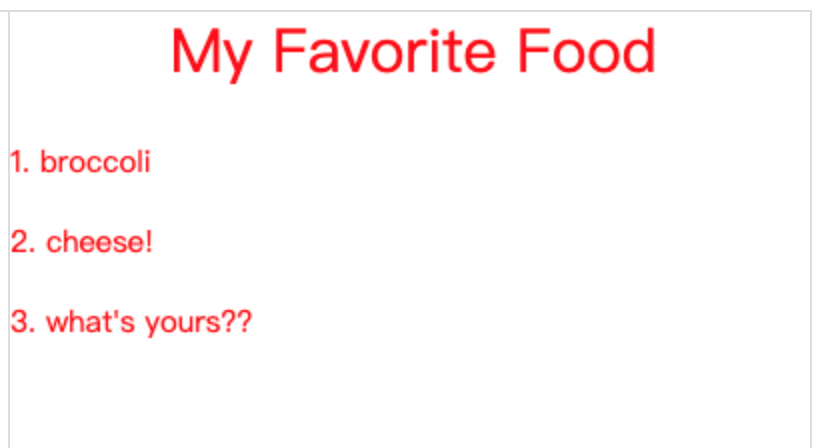
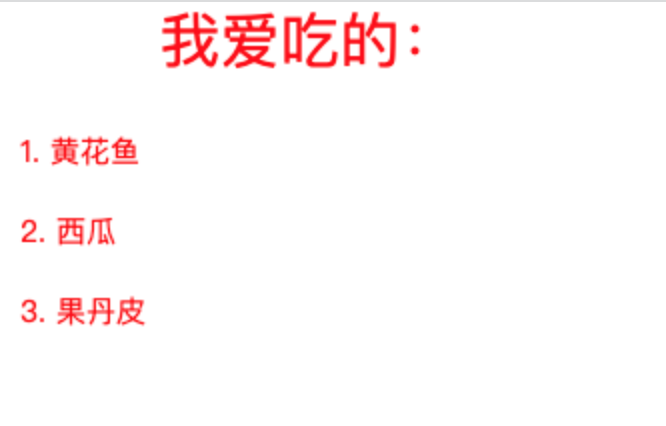
Update the chapter of text and strings

diff --git a/Notes-1-IntroToJS/7-TextStrings.html b/Notes-1-IntroToJS/7-TextStrings.html
@@ -5,7 +5,7 @@
 
 <meta charset="utf-8">
 <meta name="viewport" content="width=device-width, initial-scale=1.0, user-scalable=yes">
-<title>7-Text&Strings</title>
+<title>7-TextStrings</title>
 
 
 <style type="text/css">
@@ -328,61 +328,79 @@ kbd {
 
 <body>
 
-<h2 id="toc_0">Text and strings</h2>
+<h2 id="toc_0">Text and strings 文本～字符串</h2>
 
-<div><pre><code class="language-none">fill(0, 13, 255); 
+<div><pre><code class="language-none">// 字体颜色
+fill(0, 13, 255); 
+
+// 字号，也就是字体大小
 textSize(18); 
-text(&quot;We are coding!&quot;, 99, 155);</code></pre></div>
+
+// 输出吧文本
+text(&quot;We are coding!&quot;, 99, 155); </code></pre></div>
 
 <ul>
-<li><code>fill()</code>: font color</li>
-<li><code>textSize()</code>: font size</li>
-<li><code>text()</code>: display text
+<li><code>text()</code> 的参数：
 
 <ul>
-<li>content string, </li>
-<li>x of left-bottom corner of the text box</li>
-<li>y of left-bottom corner of the text box</li>
+<li>文本内容 content string, </li>
+<li>文本框左下角的横坐标 x of left-bottom corner of the text box</li>
+<li>文本框左下角的纵坐标 y of left-bottom corner of the text box</li>
 </ul></li>
 </ul>
 
-<h3 id="toc_1">Challenge</h3>
+<h3 id="toc_1">Challenge: My favorite foods 我爱吃的</h3>
+
+<p><a href="https://www.khanacademy.org/computer-programming/text-and-string-my-favorite-foods/6283708668002304">Example code</a></p>
 
 <p><img src="Images/myFavoriteFood.png" height="200"></p>
 
-<h2 id="toc_2">String</h2>
+<h3 id="toc_2">String 字符串 ～ 第二个数据类型！</h3>
 
 <p><span style="color:white;background-color:orange">String 字符串</span> is another important <span style="color:white;background-color:orange">data type 数据类型</span>, besides <span style="color:white;background-color:orange">numbers 数</span>.</p>
 
-<p><code>&quot;Enclosed with a pair of quatation marks.&quot;</code></p>
+<p>用一对引号括起来！</p>
 
-<div><pre><code class="language-none">// Set font color and size
+<p><code>&quot;Enclosed with a pair of quatation marks.&quot;</code> </p>
+
+<p><a href="https://www.khanacademy.org/computer-programming/pjs/5988122936950784">Example code: 好几个张小二～～</a></p>
+
+<p><img src="Images/zhangxiaoer.png" height="200"/></p>
+
+<div><pre><code class="language-none">// Set font color and size 设置字体颜色和字号
 fill(92, 24, 219);
-textSize(30);
+textSize(20);
 
-// Define the string as an variable
-var myName = &quot;Sophia&quot;; 
+// Define the string as an variable 
+// 定义一个变量，它是字符串！
+var myName = &quot;张小二呀&quot;; 
 
 // Use the variable as the text content to display
-text(myName, 41, 30);
-text(myName, 41, 60);
-text(myName, 41, 90);</code></pre></div>
+// 使用这个变量作为文本，多次输出吧
+text(myName, 40, 60);
+text(myName, 40, 90);
+text(myName, 40, 120);
+</code></pre></div>
 
-<p><img src="Images/sophia.png" height="200"/></p>
+<h3 id="toc_3">Concatenate strings 把几个字符串：串接起来！</h3>
 
-<h2 id="toc_3">Concatenate string 串接字符串</h2>
+<p><a href="https://www.khanacademy.org/computer-programming/pjs/5988122936950784">Example code</a></p>
 
-<div><pre><code class="language-none">var myName = &quot;Sophia&quot;;
-var message = myName + &quot;!!!&quot;;    // Concatenate 2 strings
+<p><img src="Images/concatenateStrings.png" height="100"/></p>
+
+<div><pre><code class="language-none">var myName = &quot;张老二&quot;;
+var message = myName + &quot;: &quot; + &quot; 你不是张老三&quot; + &quot;!!&quot;;    // Concatenate 2 strings
 text(message, 41, 30);</code></pre></div>
 
-<p><img src="Images/sophiaWithExclamation.png" height="100"/></p>
+<h3 id="toc_4">Challenge: Mouse Tracker 坐标文本追着鼠标跑～～biu～</h3>
 
-<h3 id="toc_4">Challenge: Mouse Tracker</h3>
+<p><a href="https://www.khanacademy.org/computer-programming/challenge-mouse-tracker/5687850272505856">Example code</a></p>
 
 <p><img src="Images/textingMouseTrack.gif" height="300"/></p>
 
-<h3 id="toc_5">Project: Ad design</h3>
+<h3 id="toc_5">Project: Ad design 广告创意！</h3>
+
+<p><a href="https://www.khanacademy.org/computer-programming/pjs/5801349036326912">Example code: 怪兽日记</a></p>
 
 <p><img src="Images/adDesign.gif" height="300"/></p>
 

diff --git a/Notes-1-IntroToJS/6-ResizingWithVariables.html b/Notes-1-IntroToJS/6-ResizingWithVariables.html
@@ -351,6 +351,8 @@ ellipse(x+1/4*faceSize, y-faceSize/8, eyeSize, eyeSize);</code></pre></div>
 
 <p><img src="Images/bearEyesCompleted.gif" height="300"/></p>
 
+<p><a href="https://www.khanacademy.org/computer-programming/challenge-brown-bear-eyes-completed/6211689131884544">Example code: 🐻熊大🐻熊二</a></p>
+
 <h2 id="toc_1">Using math expressions in Javascript</h2>
 
 <div><pre><code class="language-none">var x = 10;
